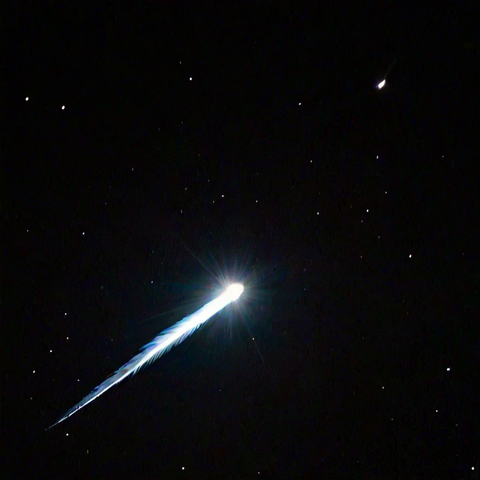
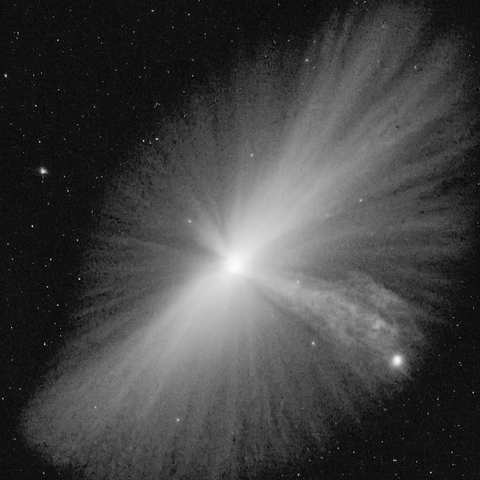
Fix comet/meteor image confusion, exclude comet pending re-review
User reported "meteor" kept reappearing in englishListening because
its review-queue answer was being missed repeatedly — traced to
comet and meteor rendering as visually identical (a diagonal light
streak on a starry background), an unwinnable same-category
distractor pair. Rewrote both prompts to be structurally distinct
(comet: a large round glowing coma with a fan-shaped tail, no
streak; meteor: a single thin fast streak, no round head). Meteor's
regen reads correctly; comet's reads more like a starburst/nebula
than a recognizable comet, so it's held out of quiz rotation
pending another pass.

Claude-Session: https://claude.ai/code/session_018KeXrFEEUWLounacPr8ts6

diff --git a/src/domain/wordBank.ts b/src/domain/wordBank.ts
@@ -562,24 +562,28 @@ export function getWordById(id: string): WordEntry {
  * Image-unconfirmed (regenerated via the standard, non-Lightning RealVisXL checkpoint
  * after the Lightning-checkpoint version was reviewed as low quality, but not yet
  * re-confirmed by a human reviewer — see the word-image-review project memory):
- * breeze, caterpillar, chalk, chin, crane, crayon, cucumber, desert, diamond, drizzle,
- * elbow, farm, firefly, garden, glacier, glue, hail, hair, head, humidity, jumprope,
- * ketchup, knee, lighthouse, mango, mayonnaise, mole, mountain, nail, omelette, oval,
- * pentagon, platypus, plum, porcupine, recorder, rectangle, root, sand, shelf,
- * shoulder, skating, soda, square, squid, stingray, tambourine, tapir, textbook,
- * thunder, top, valley, volcano, wind, xylophone, yoyo, zoo
+ * breeze, caterpillar, chalk, chin, comet, crane, crayon, cucumber, desert, diamond,
+ * drizzle, elbow, farm, firefly, garden, glacier, glue, hail, hair, head, humidity,
+ * jumprope, ketchup, knee, lighthouse, mango, mayonnaise, mole, mountain, nail,
+ * omelette, oval, pentagon, platypus, plum, porcupine, recorder, rectangle, root,
+ * sand, shelf, shoulder, skating, soda, square, squid, stingray, tambourine, tapir,
+ * textbook, thunder, top, valley, volcano, wind, xylophone, yoyo, zoo
+ *
+ * (comet: regenerated to look visually distinct from meteor per QA — the fix reads as
+ * a bright starburst/nebula rather than a recognizable comet, rejected on review.)
  */
 export const EXCLUDED_WORD_IDS = new Set([
   // audio-unresolved
   'pasta', 'taco', 'turquoise', 'umbrella', 'socks', 'ostrich', 'eye',
   // image-unconfirmed
-  'breeze', 'caterpillar', 'chalk', 'chin', 'crane', 'crayon', 'cucumber', 'desert',
-  'diamond', 'drizzle', 'elbow', 'farm', 'firefly', 'garden', 'glacier', 'glue', 'hail',
-  'hair', 'head', 'humidity', 'jumprope', 'ketchup', 'knee', 'lighthouse', 'mango',
-  'mayonnaise', 'mole', 'mountain', 'nail', 'omelette', 'oval', 'pentagon', 'platypus',
-  'plum', 'porcupine', 'recorder', 'rectangle', 'root', 'sand', 'shelf', 'shoulder',
-  'skating', 'soda', 'square', 'squid', 'stingray', 'tambourine', 'tapir', 'textbook',
-  'thunder', 'top', 'valley', 'volcano', 'wind', 'xylophone', 'yoyo', 'zoo',
+  'breeze', 'caterpillar', 'chalk', 'chin', 'comet', 'crane', 'crayon', 'cucumber',
+  'desert', 'diamond', 'drizzle', 'elbow', 'farm', 'firefly', 'garden', 'glacier',
+  'glue', 'hail', 'hair', 'head', 'humidity', 'jumprope', 'ketchup', 'knee',
+  'lighthouse', 'mango', 'mayonnaise', 'mole', 'mountain', 'nail', 'omelette', 'oval',
+  'pentagon', 'platypus', 'plum', 'porcupine', 'recorder', 'rectangle', 'root', 'sand',
+  'shelf', 'shoulder', 'skating', 'soda', 'square', 'squid', 'stingray', 'tambourine',
+  'tapir', 'textbook', 'thunder', 'top', 'valley', 'volcano', 'wind', 'xylophone',
+  'yoyo', 'zoo',
 ])
 
 /** wordBank filtered to only words eligible for quiz use — see EXCLUDED_WORD_IDS. */

diff --git a/scripts/generate-word-images-local.py b/scripts/generate-word-images-local.py
@@ -266,9 +266,15 @@ unedited aerial landscape photograph, no people, no boats
 
 SPACE_PROMPTS = {
     "planet": "a real planet in space, spherical, visible surface detail and atmosphere, floating in a starfield, black background of space",
-    "comet": "a real comet in space with a bright icy nucleus and a long glowing tail, starfield background",
+    # QA: kept getting confused with meteor as a quiz distractor pair — both rendered as
+    # a thin diagonal streak of light on a starry background, indistinguishable in a
+    # single still photo. A comet's defining feature (unlike a meteor's brief fast
+    # streak) is a bright round fuzzy head that visibly dominates the frame, with a
+    # wide soft fan-shaped tail rather than a thin line — described explicitly, with a
+    # negative against the streak look, to make the two visually distinct.
+    "comet": "a real comet in space, a large bright round fuzzy glowing head (the coma) filling much of the frame, a wide soft fan-shaped tail of glowing dust spreading out behind it, not a thin streak or line, starfield background",
     "galaxy": "a real spiral galaxy in space, glowing spiral arms of stars, black background of space",
-    "meteor": "a real meteor streaking across a dark night sky, bright glowing trail, stars visible in background",
+    "meteor": "a real meteor streaking across a dark night sky, a single thin fast bright line with no round glowing head, stars visible in background",
 }
 
 
@@ -1582,6 +1588,8 @@ WORD_NEGATIVE_OVERRIDES = {
     "crayon": "pencil, wood, wooden, sharpened point, graphite tip",
     "mango": "cut, sliced, peeled, bite mark, bitten, exposed flesh, interior",
     "plum": "dark purple, dark red, small",
+    "comet": "thin streak, thin line, meteor, shooting star",
+    "meteor": "round glowing head, fuzzy coma, comet, wide fan-shaped tail",
 }
 
 
